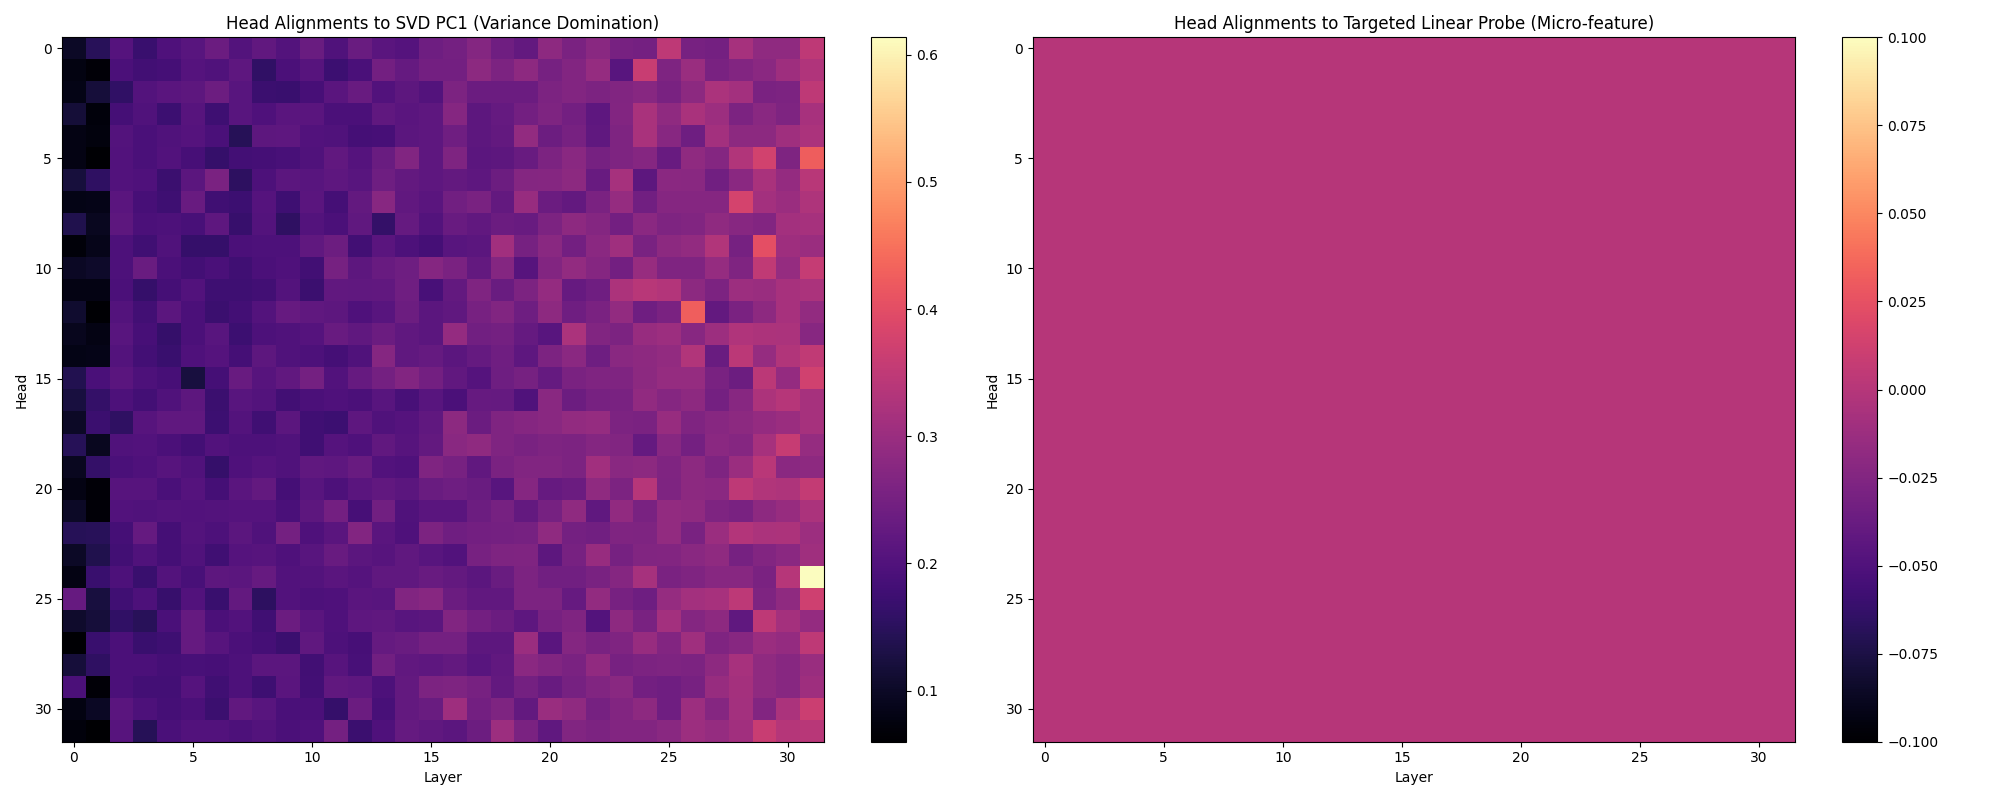
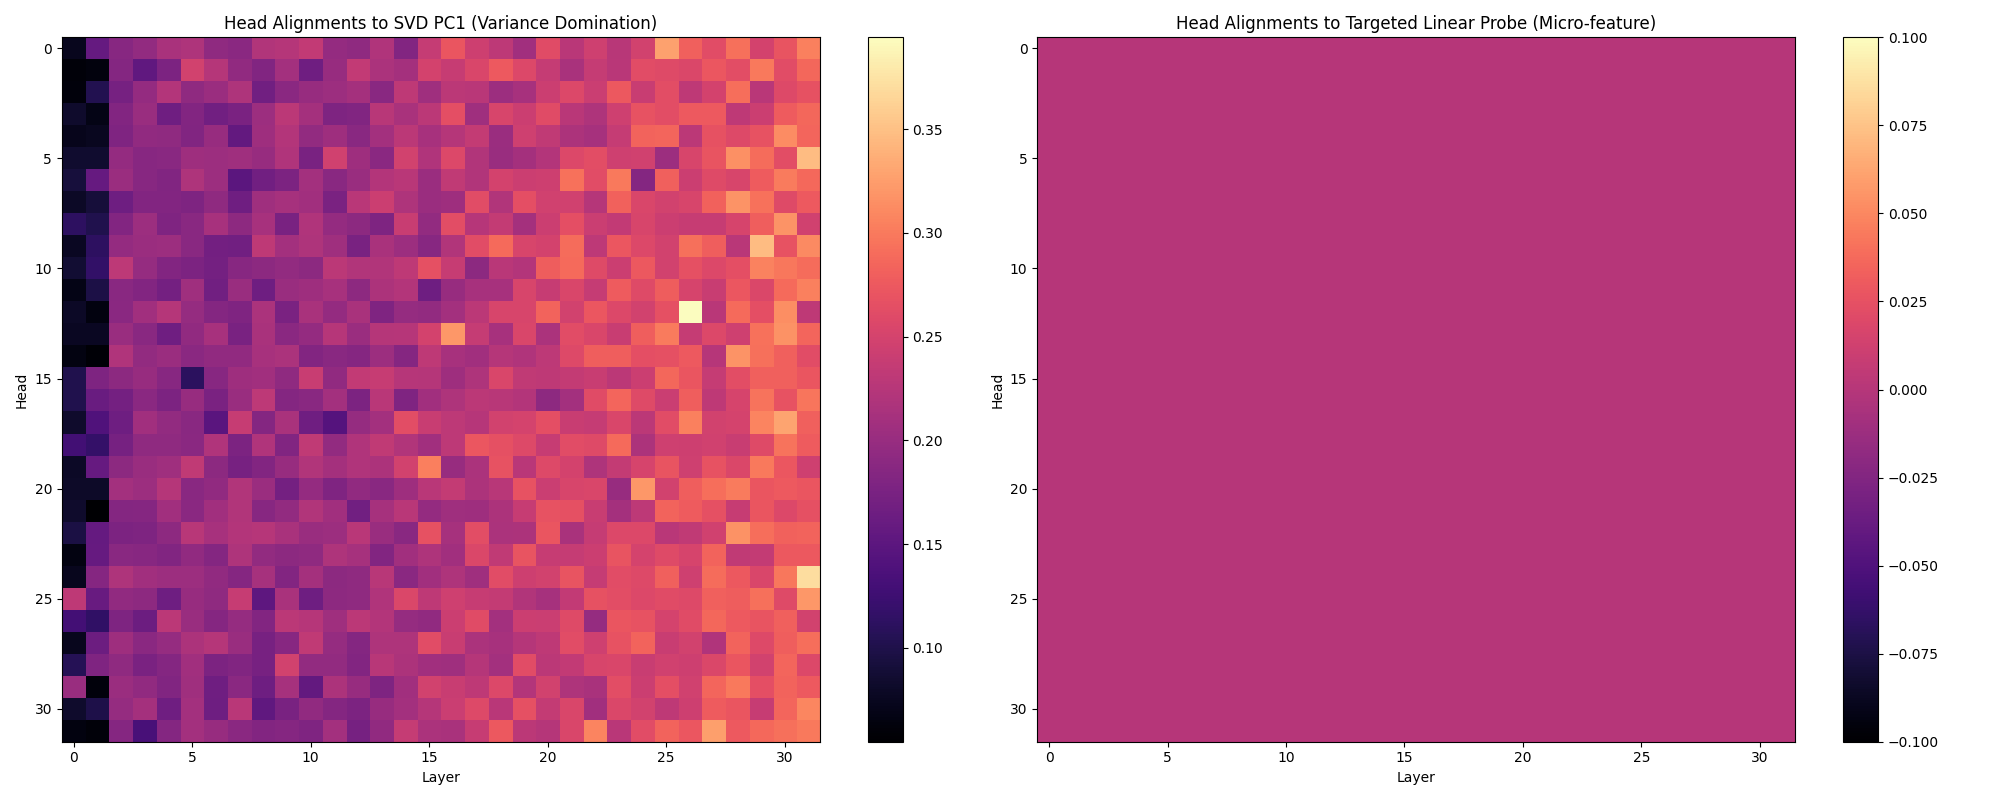
Re-run Experiment 1 on diverse semantic imagery to guarantee true continuous action variance

diff --git a/openvla_linear_probe.py b/openvla_linear_probe.py
@@ -21,46 +21,23 @@ def run_experiment():
     ).to(device)
     model.eval()
 
-    print("Generating Synthetic Vision-Action Continuous Dataset...")
-    # Load our trusted workspace dummy image
-    img_path = "workspace_dummy.jpg"
-    if not os.path.exists(img_path):
-        # Create a simple dummy image if it was lost
-        img_array = np.zeros((224, 224, 3), dtype=np.uint8)
-        img_array[100:150, 100:150, 0] = 255 # Red block
-        Image.fromarray(img_array).save(img_path)
-        
-    base_img = Image.open(img_path).convert("RGB")
+    print("Loading Beans (Proper Diverse Semantic Dataset) for Target Variance...")
+    from datasets import load_dataset
+    # Using Beans because it uses modern Parquet format instead of deprecated customized HF scripts.
+    ds = load_dataset("beans", split="train[:120]", trust_remote_code=True)
 
-    # Generate 100 pairs of (augmented_img, prompt)
-    prompts = [
-        "Open the gripper completely.",
-        "Close the gripper tightly.",
-        "Move the robotic arm forward.",
-        "Pick up the red block.",
-        "Release the object.",
-        "Shift slightly to the left.",
-        "Rotate the end effector.",
-        "Lower the arm to the table.",
-        "Grasp the object.",
-        "Let go of the block."
-    ]
-    
     samples = []
-    # Create 100 augmented variations
-    for i in range(10): # 10 prompts
-        for j in range(10): # 10 brightness adjustments
-            enhancer = ImageEnhance.Brightness(base_img)
-            # Brightness from 0.5 to 1.4
-            aug_img = enhancer.enhance(0.5 + (j * 0.1))
-            samples.append((aug_img, prompts[i]))
+    for i in range(100):
+        # We need RGB format for the processor
+        img = ds[i]['image'].convert("RGB")
+        samples.append((img, "pick up the primary object"))
 
     X_list = []
     Y_list = []
 
     print(f"Extracting residual streams & continuous actions for {len(samples)} samples...")
     for idx, (img, prompt) in enumerate(samples):
-        text_input = f"In: What action should the robot take to {prompt.lower()}\nOut:"
+        text_input = f"In: What action should the robot take to {prompt.lower()}?\nOut:"
         inputs = processor(text=text_input, images=img, return_tensors="pt").to(device, dtype=torch.float16)
 
         with torch.no_grad():
